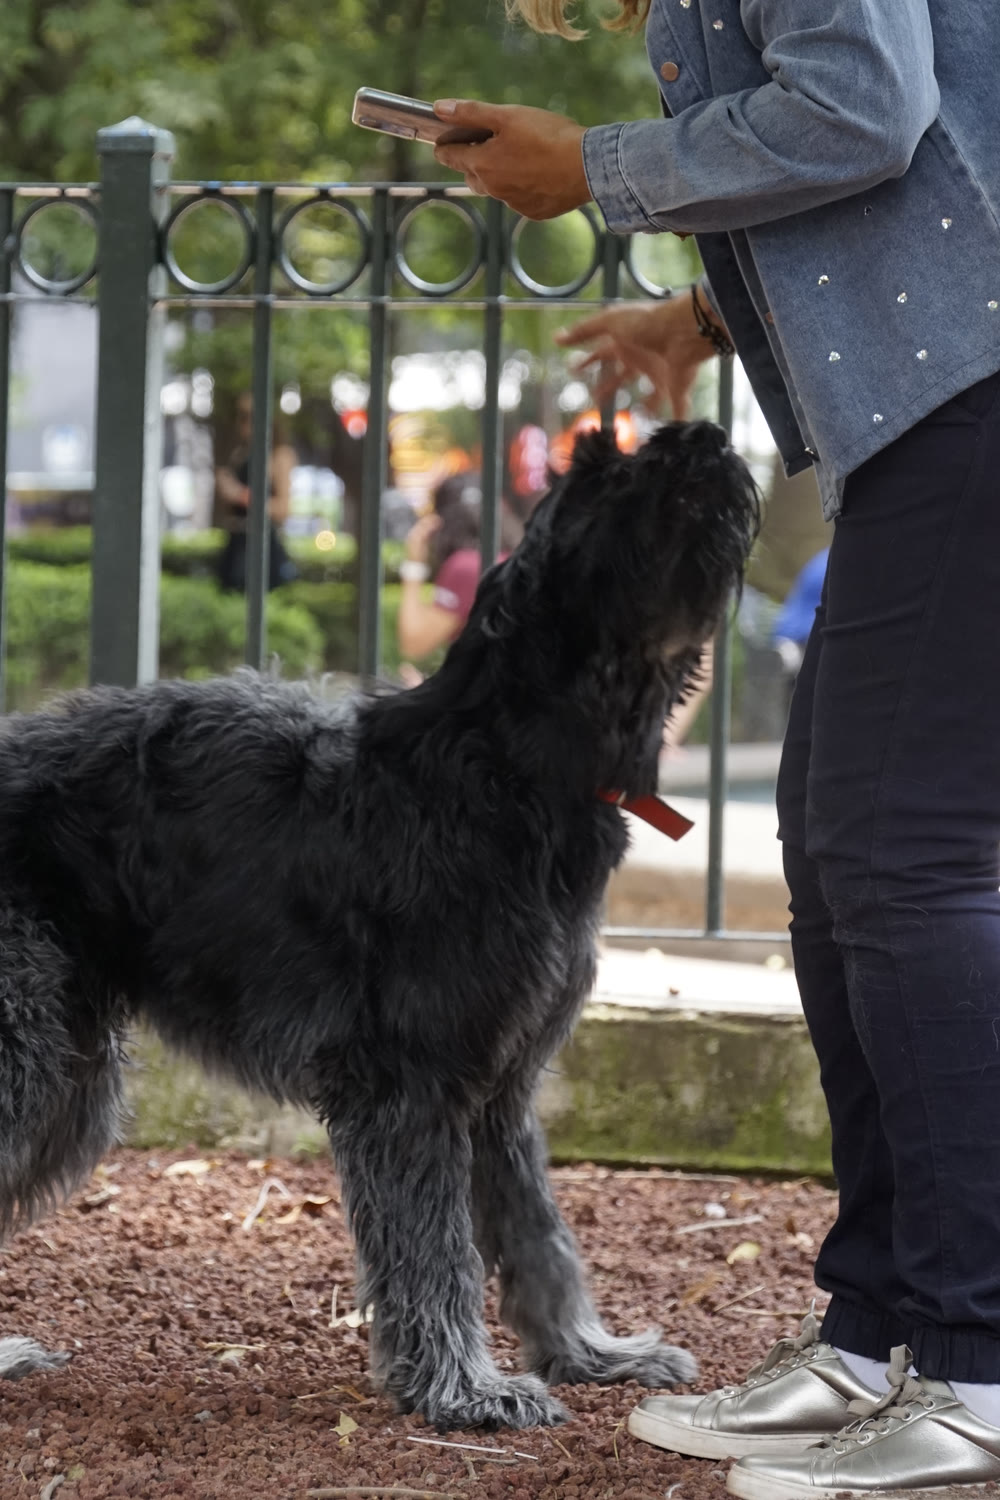
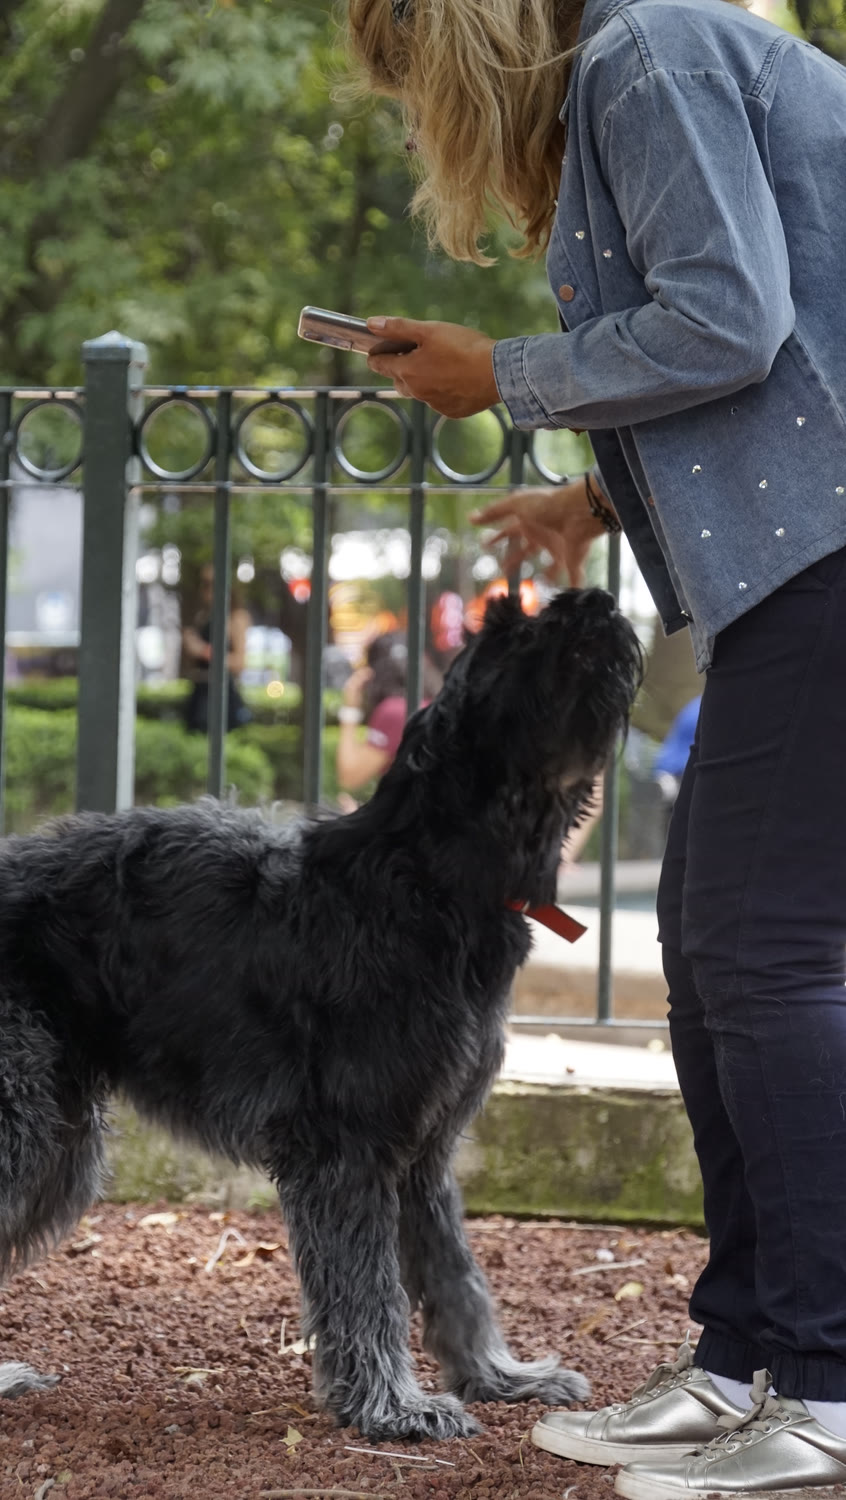
Ease Fiel session photos to 3:4 and show Clásica whole
Clásica (_DSC1456) keeps its full height with margins at the sides so
nothing is cut. Esencial and Legado are re-cropped from full height.

diff --git a/brands/fiel/index.html b/brands/fiel/index.html
@@ -27,7 +27,7 @@
 
   <link rel="stylesheet" href="../../css/site.css?v=1.0.7">
   <link rel="stylesheet" href="../../css/layout.css?v=1.0.7">
-  <link rel="stylesheet" href="../../css/brand.css?v=1.0.8">
+  <link rel="stylesheet" href="../../css/brand.css?v=1.0.9">
   <script src="../../js/parallax.js" defer></script>
   <script src="../../js/protect.js" defer></script>
 </head>
@@ -123,7 +123,7 @@
 
       <div class="sessions__grid">
         <article class="session">
-          <div class="plate__frame"><img draggable="false" src="../../images/brands/fiel.esmx/web/sesion-esencial.jpg?v=1.0.9" alt="Perro blanco con manchas negras junto a su pelota naranja: ejemplo de sesión Esencial" loading="lazy"></div>
+          <div class="plate__frame"><img draggable="false" src="../../images/brands/fiel.esmx/web/sesion-esencial.jpg?v=1.0.10" alt="Perro blanco con manchas negras junto a su pelota naranja: ejemplo de sesión Esencial" loading="lazy"></div>
           <div class="session__body">
             <p class="eyebrow session__tag">La más elegida</p>
             <h3 class="subhead">Esencial</h3>
@@ -141,7 +141,7 @@
         </article>
 
         <article class="session session--featured">
-          <div class="plate__frame"><img draggable="false" src="../../images/brands/fiel.esmx/web/sesion-clasica.jpg?v=1.0.9" alt="Perro negro de pelo largo y rizado estirándose hacia la mano de su dueña en el parque: ejemplo de sesión Clásica" loading="lazy"></div>
+          <div class="plate__frame plate__frame--whole"><img draggable="false" src="../../images/brands/fiel.esmx/web/sesion-clasica.jpg?v=1.0.10" alt="Perro negro de pelo largo y rizado estirándose hacia la mano de su dueña en el parque: ejemplo de sesión Clásica" loading="lazy"></div>
           <div class="session__body">
             <p class="eyebrow session__tag">Con la familia</p>
             <h3 class="subhead">Clásica</h3>
@@ -160,7 +160,7 @@
         </article>
 
         <article class="session">
-          <div class="plate__frame"><img draggable="false" src="../../images/brands/fiel.esmx/web/sesion-legado.jpg?v=1.0.9" alt="Perra de pelo crema con arnés azul, de pie en el parque: ejemplo de sesión Legado" loading="lazy"></div>
+          <div class="plate__frame"><img draggable="false" src="../../images/brands/fiel.esmx/web/sesion-legado.jpg?v=1.0.10" alt="Perra de pelo crema con arnés azul, de pie en el parque: ejemplo de sesión Legado" loading="lazy"></div>
           <div class="session__body">
             <p class="eyebrow session__tag">La favorita</p>
             <h3 class="subhead">Legado</h3>

diff --git a/css/brand.css b/css/brand.css
@@ -39,7 +39,9 @@
 }
 .session--featured { border-top: 3px solid var(--amphora-rust); }
 .session .plate__frame { aspect-ratio: 4 / 3; }
-.sessions--portrait .session .plate__frame { aspect-ratio: 2 / 3; }
+.sessions--portrait .session .plate__frame { aspect-ratio: 3 / 4; }
+/* A taller photo shows whole: full height, margins at the sides. */
+.session .plate__frame--whole img { object-fit: contain; transform: none; }
 .session__body {
   display: flex;
   flex: 1;
